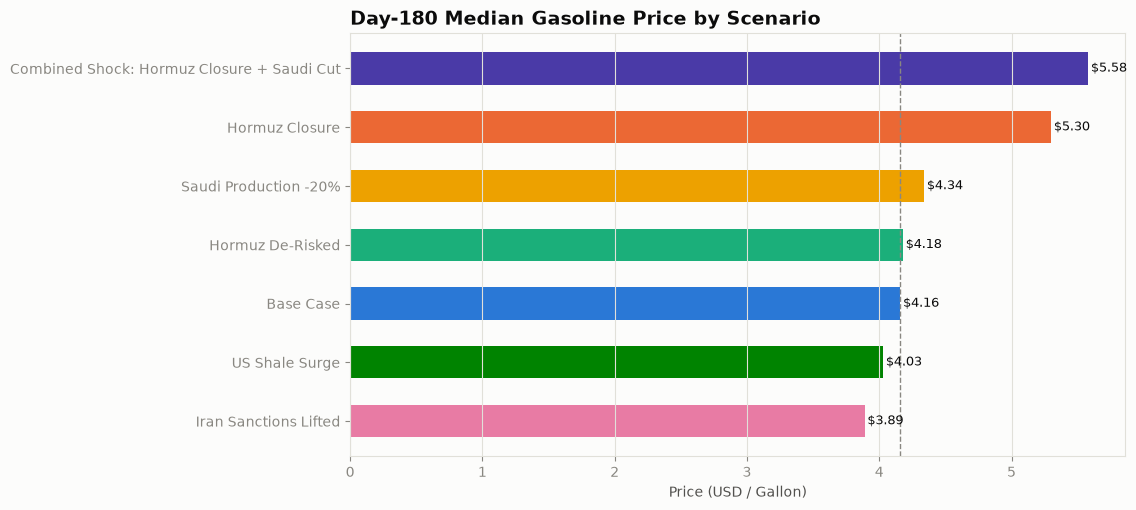
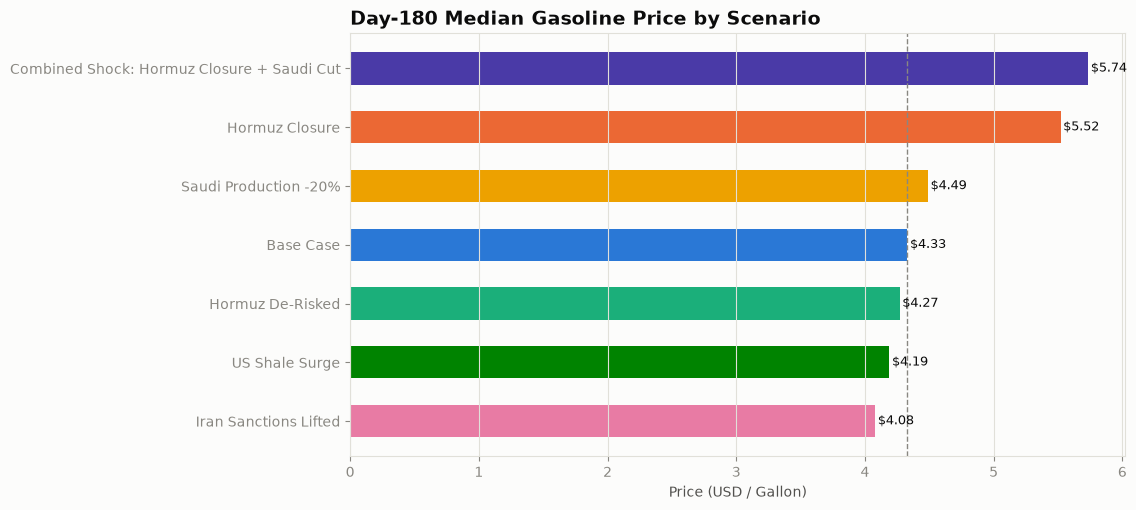
Daily scenario report refresh

diff --git a/oil_market_outlook.md b/oil_market_outlook.md
@@ -1,79 +1,79 @@
 # Oil & Fuels Market Outlook - Scenario Analysis
-*As of 2026-09-28 | 2,000-path Monte Carlo, 180-day horizon*
+*As of 2026-09-30 | 2,000-path Monte Carlo, 180-day horizon*
 
-**AAA national average retail prices (2026-09-28):** Regular **$4.477/gal**, diesel **$6.453/gal** ([AAA Gas Prices](https://gasprices.aaa.com/)). These are a snapshot from the last report run, not live prices. This model projects a *medium-term path* for the crude-to-pump price chain, not today's station price, so some gap is expected — but if the gap looks large, check the "Calibration inputs" line under Methodology first: the model is only as current as the last `calibrate.py` run.
+**AAA national average retail prices (2026-09-30):** Regular **$4.434/gal**, diesel **$6.414/gal** ([AAA Gas Prices](https://gasprices.aaa.com/)). These are a snapshot from the last report run, not live prices. This model projects a *medium-term path* for the crude-to-pump price chain, not today's station price, so some gap is expected — but if the gap looks large, check the "Calibration inputs" line under Methodology first: the model is only as current as the last `calibrate.py` run.
 
 ## Executive Summary
 
-Under current calibrated conditions, the model's base-case median retail gasoline price reaches **$4.16/gal** 180 days out (10th-90th percentile range $3.35-$5.31). Across the six stress scenarios modeled below, the most bullish case is **Combined Shock: Hormuz Closure + Saudi Cut**, which pushes the day-180 median to $5.58/gal (+34.1% vs. base), while **Iran Sanctions Lifted** offers the most relief, at $3.89/gal (-6.5% vs. base).
+Under current calibrated conditions, the model's base-case median retail gasoline price reaches **$4.33/gal** 180 days out (10th-90th percentile range $3.50-$5.47). Across the six stress scenarios modeled below, the most bullish case is **Combined Shock: Hormuz Closure + Saudi Cut**, which pushes the day-180 median to $5.74/gal (+32.4% vs. base), while **Iran Sanctions Lifted** offers the most relief, at $4.08/gal (-5.8% vs. base).
 
 ## Scenario Summary Table (Gasoline)
 
 | Scenario | Day 30 | Day 90 | Day 180 | Day 180 10th-90th pct. | vs. Base |
 |---|---|---|---|---|---|
-| Base Case | $4.49 | $4.15 | $4.16 | $3.35-$5.31 | - |
-| Hormuz Closure | $5.97 | $5.51 | $5.30 | $3.98-$7.55 | +27.4% |
-| Hormuz De-Risked | $4.46 | $4.14 | $4.18 | $3.38-$5.23 | +0.5% |
-| Saudi Production -20% | $4.72 | $4.36 | $4.34 | $3.42-$5.66 | +4.3% |
-| Iran Sanctions Lifted | $4.18 | $3.86 | $3.89 | $3.15-$4.97 | -6.5% |
-| US Shale Surge | $4.32 | $4.02 | $4.03 | $3.28-$5.18 | -3.1% |
-| Combined Shock: Hormuz Closure + Saudi Cut | $6.22 | $5.77 | $5.58 | $4.07-$8.20 | +34.1% |
+| Base Case | $4.63 | $4.32 | $4.33 | $3.50-$5.47 | - |
+| Hormuz Closure | $6.04 | $5.58 | $5.52 | $4.11-$7.72 | +27.5% |
+| Hormuz De-Risked | $4.60 | $4.23 | $4.27 | $3.48-$5.29 | -1.4% |
+| Saudi Production -20% | $4.85 | $4.48 | $4.49 | $3.60-$5.75 | +3.7% |
+| Iran Sanctions Lifted | $4.34 | $4.02 | $4.08 | $3.32-$5.07 | -5.8% |
+| US Shale Surge | $4.49 | $4.16 | $4.19 | $3.42-$5.32 | -3.2% |
+| Combined Shock: Hormuz Closure + Saudi Cut | $6.26 | $5.89 | $5.74 | $4.20-$8.35 | +32.4% |
 
-## Scenario Summary Table (Diesel, Day 180 median)
+## Scenario Summary Table (Diesel)
 
-| Scenario | Day 180 Diesel |
-|---|---|
-| Base Case | $5.50 |
-| Hormuz Closure | $6.59 |
-| Hormuz De-Risked | $5.48 |
-| Saudi Production -20% | $5.67 |
-| Iran Sanctions Lifted | $5.20 |
-| US Shale Surge | $5.33 |
-| Combined Shock: Hormuz Closure + Saudi Cut | $6.91 |
+| Scenario | Day 30 | Day 60 | Day 90 | Day 180 |
+|---|---|---|---|---|
+| Base Case | $6.34 | $6.18 | $6.05 | $5.60 |
+| Hormuz Closure | $7.75 | $7.54 | $7.37 | $6.80 |
+| Hormuz De-Risked | $6.31 | $6.13 | $5.99 | $5.51 |
+| Saudi Production -20% | $6.57 | $6.39 | $6.23 | $5.75 |
+| Iran Sanctions Lifted | $6.06 | $5.89 | $5.77 | $5.34 |
+| US Shale Surge | $6.21 | $6.01 | $5.88 | $5.44 |
+| Combined Shock: Hormuz Closure + Saudi Cut | $7.98 | $7.77 | $7.63 | $7.00 |
 
 ## Scenario Detail
 
 ### Base Case
 
-Current calibrated market conditions; no policy or geopolitical shock applied.
+Current calibrated market conditions, including the manually-reviewed disruption_severity.json blend toward current chokepoint/freight conditions (see Methodology); no additional policy or geopolitical shock applied on top.
 
-Day-180 median: **$4.16/gal** gasoline (base case), $5.50/gal diesel.
+Day-180 median: **$4.33/gal** gasoline (base case), $5.60/gal diesel.
 
 ### Hormuz Closure
 
 Strait of Hormuz effectively shut: roughly 55% of its normal throughput is assumed offline, chokepoint disruption frequency quadruples, and the war-risk shipping premium triples.
 
-Day-180 median: **$5.30/gal** gasoline (+27.4% vs. base), $6.59/gal diesel.
+Day-180 median: **$5.52/gal** gasoline (+27.5% vs. base), $6.80/gal diesel.
 
 ### Hormuz De-Risked
 
 Geopolitical tension around the strait fully unwinds: disruption frequency falls to a fifth of baseline and the war-risk premium halves, with no direct change to physical supply.
 
-Day-180 median: **$4.18/gal** gasoline (+0.5% vs. base), $5.48/gal diesel.
+Day-180 median: **$4.27/gal** gasoline (-1.4% vs. base), $5.51/gal diesel.
 
 ### Saudi Production -20%
 
 Saudi Arabia cuts output and spare capacity by 20%, e.g. an OPEC+ supply-discipline shock.
 
-Day-180 median: **$4.34/gal** gasoline (+4.3% vs. base), $5.67/gal diesel.
+Day-180 median: **$4.49/gal** gasoline (+3.7% vs. base), $5.75/gal diesel.
 
 ### Iran Sanctions Lifted
 
 Sanctions are lifted, letting Iranian output ramp toward a materially higher production ceiling.
 
-Day-180 median: **$3.89/gal** gasoline (-6.5% vs. base), $5.20/gal diesel.
+Day-180 median: **$4.08/gal** gasoline (-5.8% vs. base), $5.34/gal diesel.
 
 ### US Shale Surge
 
 US shale operators ramp drilling activity, lifting both current output and spare capacity.
 
-Day-180 median: **$4.03/gal** gasoline (-3.1% vs. base), $5.33/gal diesel.
+Day-180 median: **$4.19/gal** gasoline (-3.2% vs. base), $5.44/gal diesel.
 
 ### Combined Shock: Hormuz Closure + Saudi Cut
 
 A simultaneous Hormuz closure and 20% Saudi production cut - a tail-risk stack of the two largest supply-side scenarios.
 
-Day-180 median: **$5.58/gal** gasoline (+34.1% vs. base), $6.91/gal diesel.
+Day-180 median: **$5.74/gal** gasoline (+32.4% vs. base), $7.00/gal diesel.
 
 ## Charts
 
@@ -89,4 +89,6 @@ Each scenario re-runs the full 2,000-path stochastic simulation (`simulate.go`) 
 
 **Drift anchor:** the base case has no independent view on direction. Crude and both crack spreads are anchored to the CL/HO/RB forward curves, so the expected path is the market's own, and the simulation supplies the distribution around it. Scenario shocks shift that whole anchor path rather than replacing it. Futures are a risk-neutral expectation and not a forecast - in backwardation they will tend to read lower than a realized spot path - so treat the level as market-implied rather than predicted. Note also that the **median** sits below the **mean** at longer horizons because crude is lognormal: that gap is a property of the distribution, not a bearish view.
 
-**Calibration inputs:** last calibrated on **2026-09-28** by `calibrate.py` from live NYMEX crude/gasoline/diesel futures (`yfinance`). If that date is stale, or reads "unknown" (no `date_calibrated` field), the base case below reflects old or placeholder inputs rather than today's market — re-run `python calibrate.py` before trusting the baseline.
+**Calibration inputs:** last calibrated on **2026-09-30** by `calibrate.py` from live NYMEX crude/gasoline/diesel futures (`yfinance`). If that date is stale, or reads "unknown" (no `date_calibrated` field), the base case below reflects old or placeholder inputs rather than today's market — re-run `python calibrate.py` before trusting the baseline.
+
+**Current-conditions input:** the base case blends 40% of the way from calm-floor chokepoint/freight assumptions toward the Hormuz Closure scenario's values, per `disruption_severity.json` (reviewed 2026-09-30: EIA weekly retail diesel $5.97->$6.29->$6.53/gal over 3 weeks; Goldman Sachs/Morgan Stanley notes on distillate tightness, refinery crunch, and rerouted tanker freight amid Hormuz-related disruption). This is a manual, periodically-updated judgment call, not a live feed — re-review it as conditions change.
